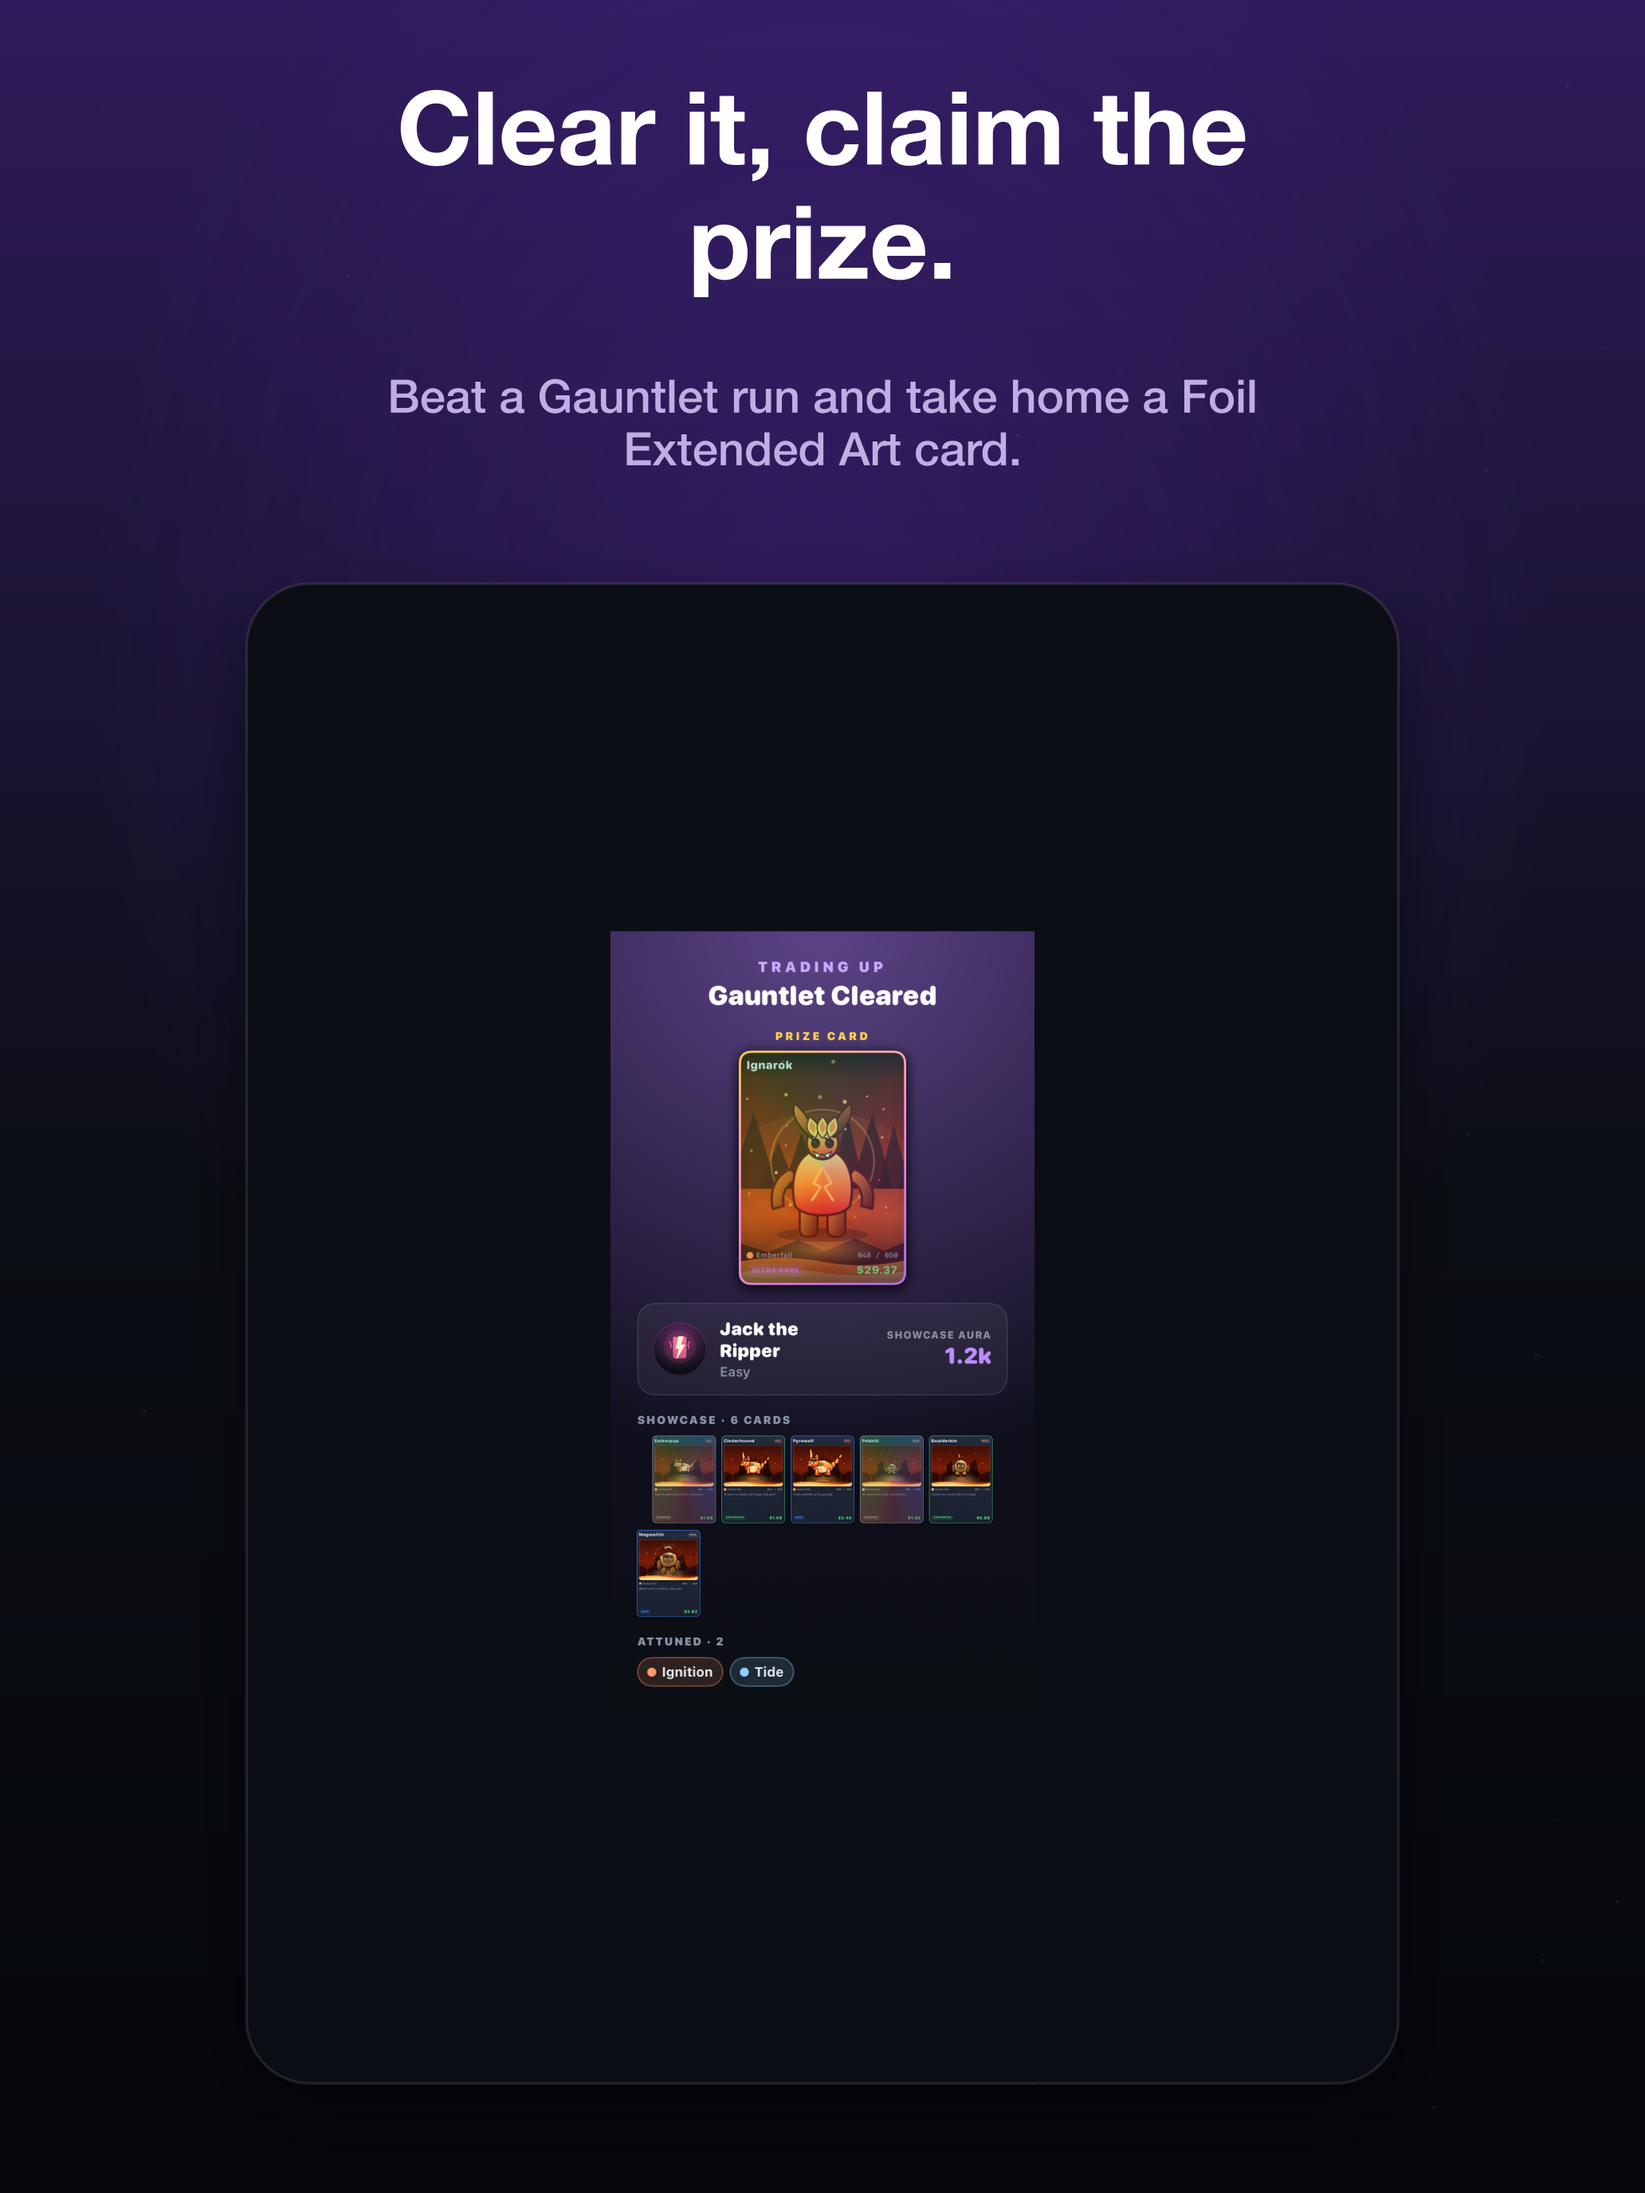
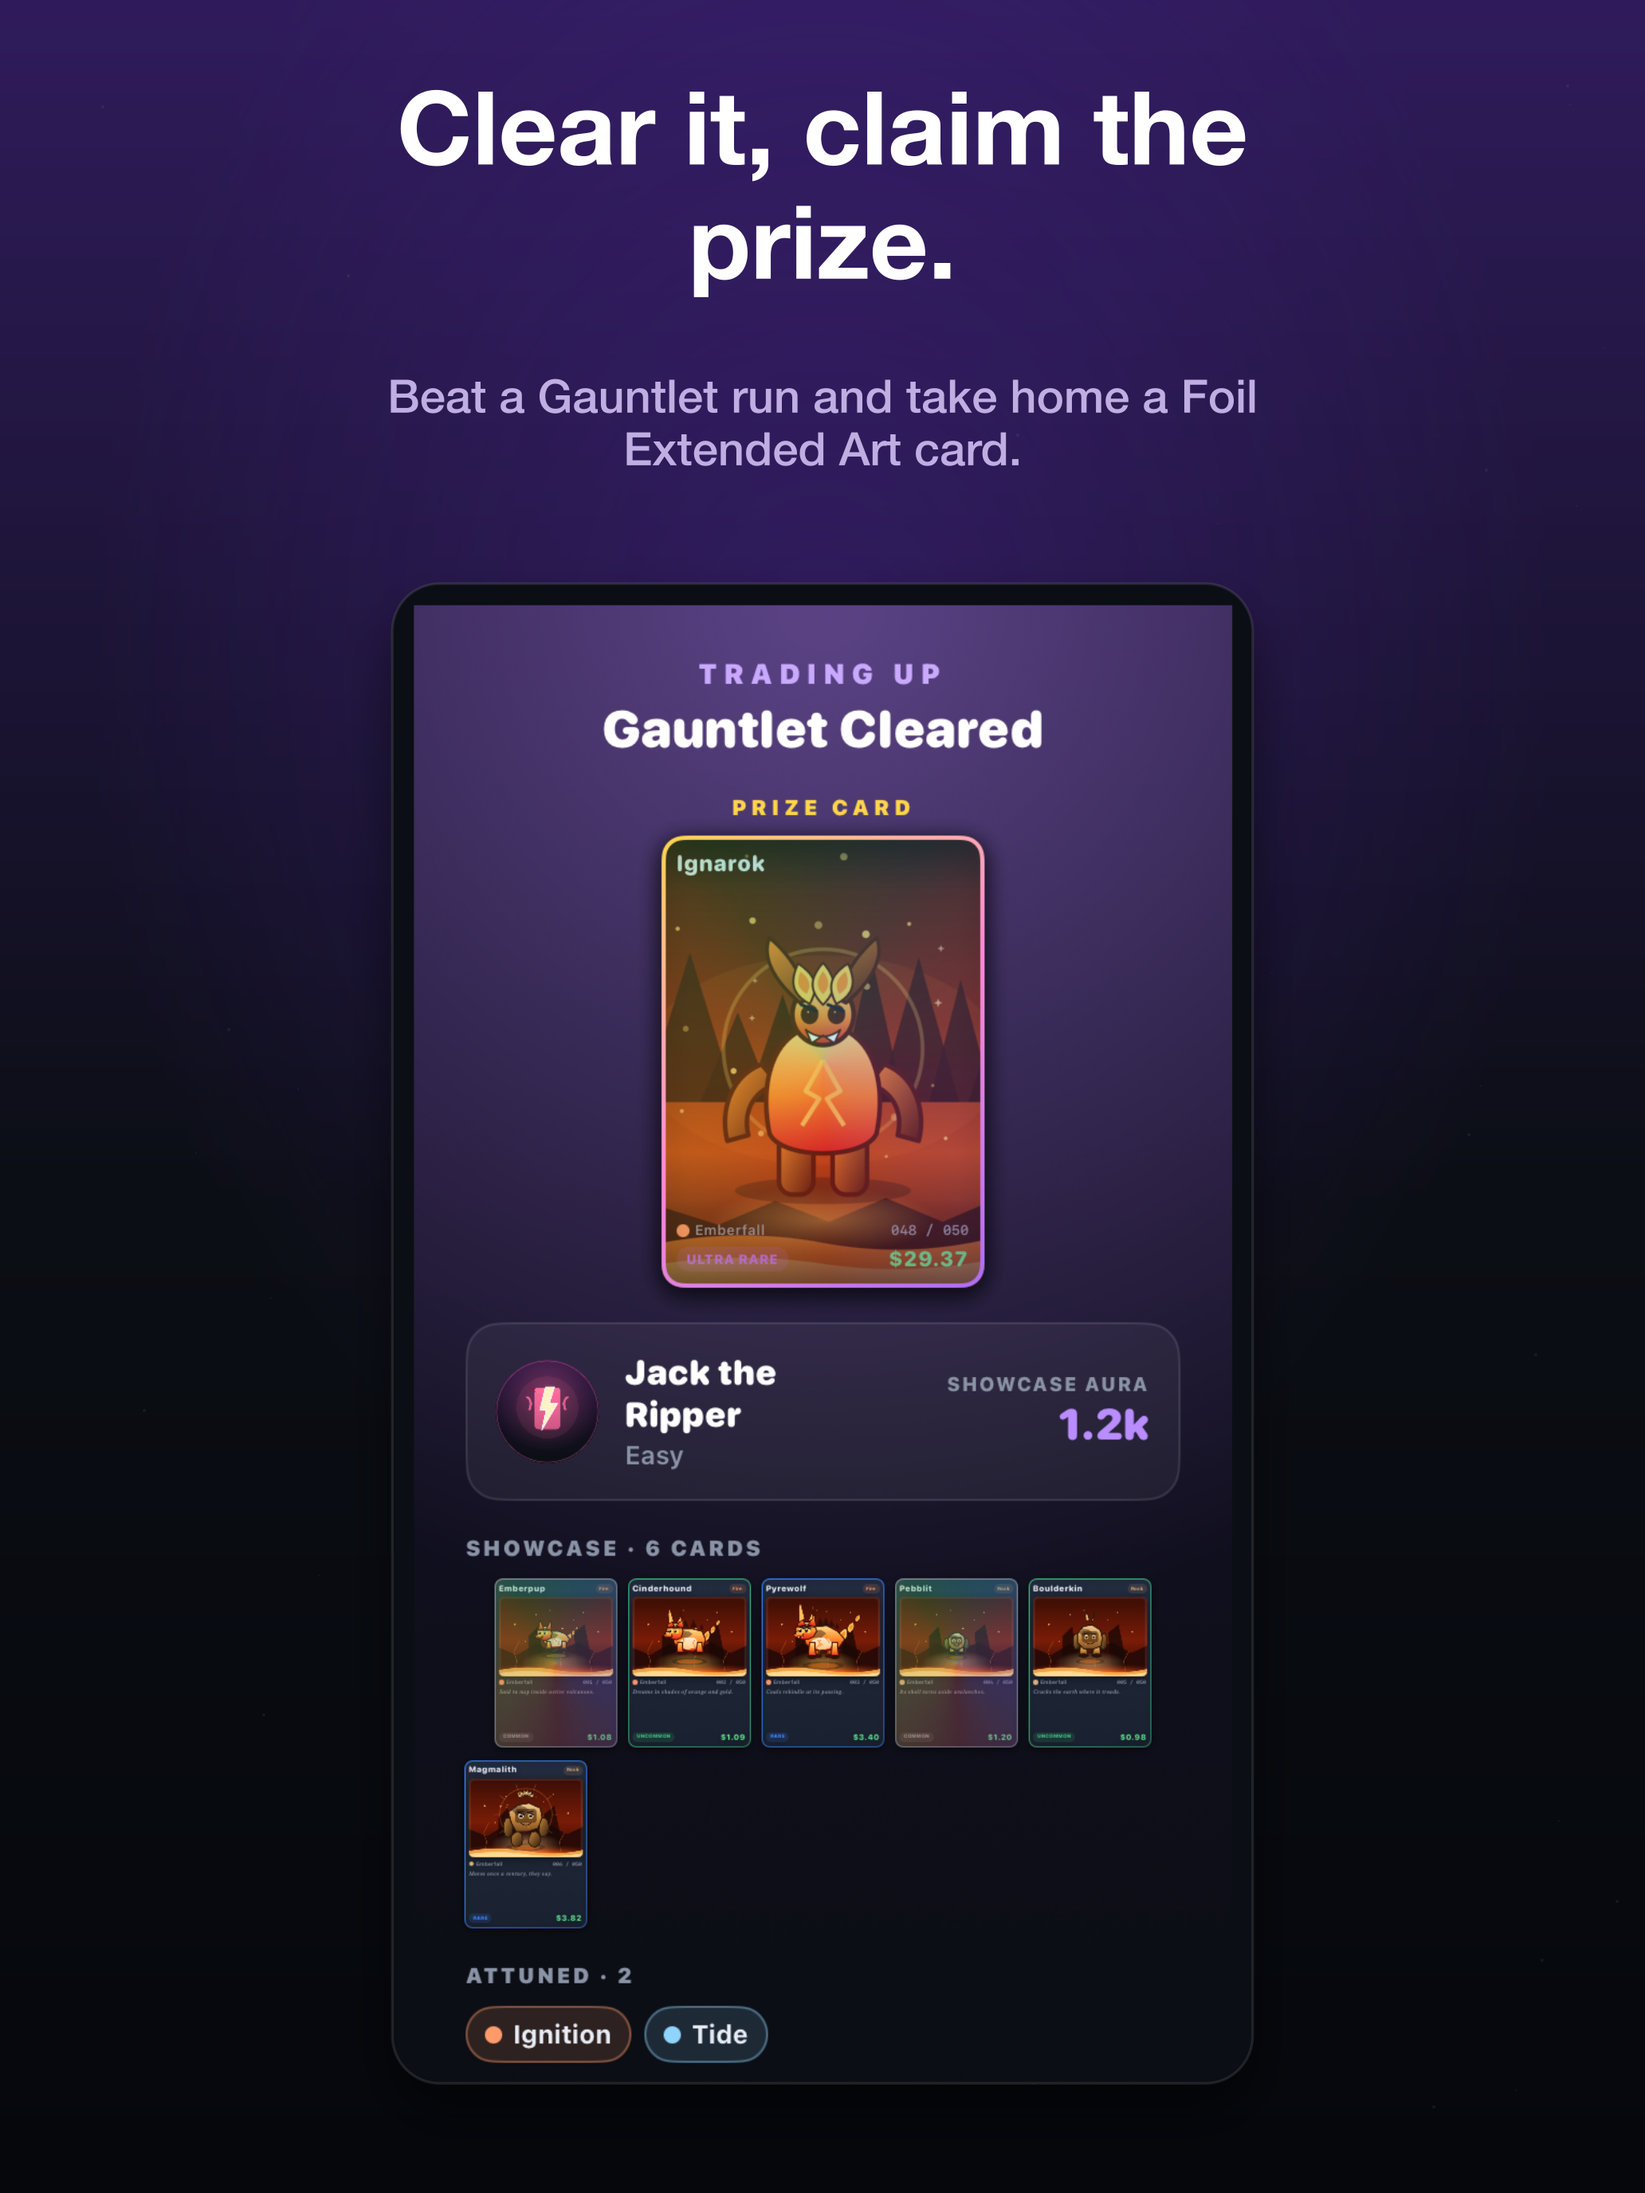
Zoom the iPad share-card marketing panel to its real content
The Gauntlet share screen draws the shareable card small and centred in a
big black canvas, so on iPad (a squarer aspect than iPhone) fitting the
whole capture left the panel tiny with wide black margins on every side.
The iPhone capture fills its screen, so it was already fine.

Generalise compose()'s crop from vertical-only (top/bottom) to all four
sides by adding optional extra_left/extra_right scene fields (trailing,
default 0, so every existing scene stays a 7-tuple and renders byte-for-byte
identically). Scene 07 now zooms the iPad capture to the purple panel
(x 652-1411, y 687-2040 of 2064x2752) via per-device crop dicts, so it fills
the card like the other panels; iPhone keeps its 0 crops.

Only 07_gauntlet-share-card_2064x2752.png changes; the other 19 PNGs are
unchanged.

Changed region(s): [[0.124, 0.25, 0.8682, 0.9688]]

diff --git a/tools/generate_marketing_shots.py b/tools/generate_marketing_shots.py
@@ -52,9 +52,13 @@ DEVICE = {
 SIZES = [(1242, 2688), (2064, 2752)]
 
 # order, slug, caption (headline), subtitle (CTA), accent element, and optional
-# extra crop (top, bottom) to trim dead space. Each crop is *source* px, either a
+# extra crop to trim dead space: extra_top, extra_bottom, and optionally
+# extra_left, extra_right (trailing, default 0). Each crop is *source* px, either a
 # single int (same trim on every device) or a {(W, H): px} dict when the iPhone
-# and iPad captures lay the screen out differently and need different trims.
+# and iPad captures lay the screen out differently and need different trims. The
+# horizontal pair lets a letterboxed screen (drawn small and centred in a big black
+# canvas, like the iPad share card) be zoomed to its real content so it fills the
+# card like every other panel.
 # Ten slots ordered as a flow: the general pack-rip hook, then Classic Mode
 # specifics, then Gauntlet Mode, then the permanent Binder, and finally a closing
 # "do you have what it takes?" challenge. Each accent stays tied to its screen's
@@ -84,7 +88,12 @@ SCENES = [
      "water", 0, 0),
     ("07", "gauntlet-share-card", "Clear it, claim the prize.",
      "Beat a Gauntlet run and take home a Foil Extended Art card.",
-     "shadow", 0, 0),
+     "shadow",
+     # The iPhone capture fills the screen, but on iPad the share card is drawn
+     # small and centred in a big black canvas, so zoom to the purple panel
+     # (x 652-1411, y 687-2040 of 2064x2752) with a little breathing room.
+     {(2064, 2752): 603}, {(2064, 2752): 692},
+     {(2064, 2752): 632}, {(2064, 2752): 633}),
     # Binder details
     ("08", "binder-emberfall", "Your best pulls, kept forever.",
      "The Binder saves the top copy of every Spryte, across every run.",
@@ -109,6 +118,16 @@ def _crop_px(val, W, H):
     return val
 
 
+def _unpack(scene):
+    """Normalise a scene tuple to (order, slug, caption, subtitle, accent, top,
+    bottom, left, right). extra_left/extra_right are optional trailing fields that
+    default to 0, so the common case (no horizontal crop) stays a clean 7-tuple."""
+    order, slug, cap, sub, accent, et, eb = scene[:7]
+    el = scene[7] if len(scene) > 7 else 0
+    er = scene[8] if len(scene) > 8 else 0
+    return order, slug, cap, sub, accent, et, eb, el, er
+
+
 def png_size(path):
     with open(path, "rb") as f:
         head = f.read(24)
@@ -125,7 +144,8 @@ def find_src(folder, slug):
     return matches[0]
 
 
-def compose(defs, W, H, src, sb, caption, subtitle, accent, extra_top, extra_bottom):
+def compose(defs, W, H, src, sb, caption, subtitle, accent, extra_top, extra_bottom,
+            extra_left, extra_right):
     """Gradient backdrop + caption + the real screenshot as a frameless card."""
     out = []
 
@@ -166,12 +186,16 @@ def compose(defs, W, H, src, sb, caption, subtitle, accent, extra_top, extra_bot
                            sub_col, weight=600, anchor="middle", opacity=1.0))
     caption_bottom = sub_y + len(sub_lines) * (W * 0.032)
 
-    # Fit the (status-bar-cropped) screenshot into the space under the caption,
-    # by width and height, then centre it — same fit logic as the phone frame.
+    # Fit the (cropped) screenshot into the space under the caption, by width and
+    # height, then centre it — same fit logic as the phone frame. The crop can trim
+    # all four sides in source px, which lets a letterboxed screen (e.g. the iPad
+    # share card, drawn small and centred in a big black canvas) be zoomed to its
+    # real content so it fills the card like every other panel.
     sw, sh = png_size(src)
     top_src = sb + extra_top
     content_h = sh - top_src - extra_bottom
-    aspect = sw / content_h
+    content_w = sw - extra_left - extra_right
+    aspect = content_w / content_h
     top = caption_bottom + H * 0.03
     bottom_margin = H * 0.05
     avail_h = H - top - bottom_margin
@@ -181,21 +205,24 @@ def compose(defs, W, H, src, sb, caption, subtitle, accent, extra_top, extra_bot
     tx = (W - tw) / 2
     ty = top + (avail_h - th) / 2
     rr = tw * 0.055
-    k = tw / sw
+    k = tw / content_w
 
     # Soft drop shadow so the frameless screen still floats off the gradient.
     blur = defs.blur(tw * 0.03)
     out.append('<g filter="url(#%s)">%s</g>' % (
         blur, gs.rrect(tx, ty + th * 0.02, tw, th, rr, fill="#000000", opacity=0.5)))
 
-    # The screenshot itself: shift it up by the cropped top and clip to the card,
-    # dropping the iOS status bar without any pixel editing.
+    # The screenshot itself: scale the full capture by k, shift it so the cropped
+    # top-left lands at the card corner, and clip to the card — dropping the status
+    # bar (and any letterbox margins) without any pixel editing.
     clip = defs.clip_rrect(tx, ty, tw, th, rr)
+    img_x = tx - extra_left * k
     img_y = ty - top_src * k
+    img_w = sw * k
     img_h = sh * k
     out.append('<g clip-path="url(#%s)"><image x="%.2f" y="%.2f" width="%.2f" '
                'height="%.2f" preserveAspectRatio="none" xlink:href="%s"/></g>' % (
-                   clip, tx, img_y, tw, img_h, gs._data_uri(src)))
+                   clip, img_x, img_y, img_w, img_h, gs._data_uri(src)))
 
     # Crisp hairline edge.
     out.append(gs.rrect(tx, ty, tw, th, rr, stroke="#ffffff",
@@ -203,14 +230,17 @@ def compose(defs, W, H, src, sb, caption, subtitle, accent, extra_top, extra_bot
     return "".join(out)
 
 
-def render(order, slug, caption, subtitle, accent_elem, extra_top, extra_bottom, W, H):
+def render(order, slug, caption, subtitle, accent_elem, extra_top, extra_bottom,
+           extra_left, extra_right, W, H):
     folder, sb = DEVICE[(W, H)]
     src = find_src(folder, slug)
     defs = gs.Defs()
     accent = gs.ELEMENT[accent_elem][2]
     et = _crop_px(extra_top, W, H)
     eb = _crop_px(extra_bottom, W, H)
-    body = compose(defs, W, H, src, sb, caption, subtitle, accent, et, eb)
+    el = _crop_px(extra_left, W, H)
+    er = _crop_px(extra_right, W, H)
+    body = compose(defs, W, H, src, sb, caption, subtitle, accent, et, eb, el, er)
     svg = ('<svg xmlns="http://www.w3.org/2000/svg" xmlns:xlink="http://www.w3.org/1999/xlink" '
            'width="%d" height="%d" viewBox="0 0 %d %d">%s%s</svg>') % (
         W, H, W, H, defs.render(), body)
@@ -226,15 +256,17 @@ def render(order, slug, caption, subtitle, accent_elem, extra_top, extra_bottom,
 def main():
     if "--list" in sys.argv:
         print("Marketing scenes (frameless, from real captures):")
-        for order, slug, cap, _sub, accent, _t, _b in SCENES:
+        for scene in SCENES:
+            order, slug, cap, _sub, accent = _unpack(scene)[:5]
             print("  %s %-24s [%-8s] %s" % (order, slug, accent, cap))
         print("Sizes:", ", ".join("%dx%d" % s for s in SIZES))
         return
     os.makedirs(OUT_DIR, exist_ok=True)
     print("Rendering %d scenes x %d sizes -> %s" % (len(SCENES), len(SIZES), OUT_DIR))
-    for order, slug, cap, sub, accent, et, eb in SCENES:
+    for scene in SCENES:
+        order, slug, cap, sub, accent, et, eb, el, er = _unpack(scene)
         for (W, H) in SIZES:
-            p = render(order, slug, cap, sub, accent, et, eb, W, H)
+            p = render(order, slug, cap, sub, accent, et, eb, el, er, W, H)
             print("  %s" % os.path.relpath(p, ROOT))
     print("Done.")
 
